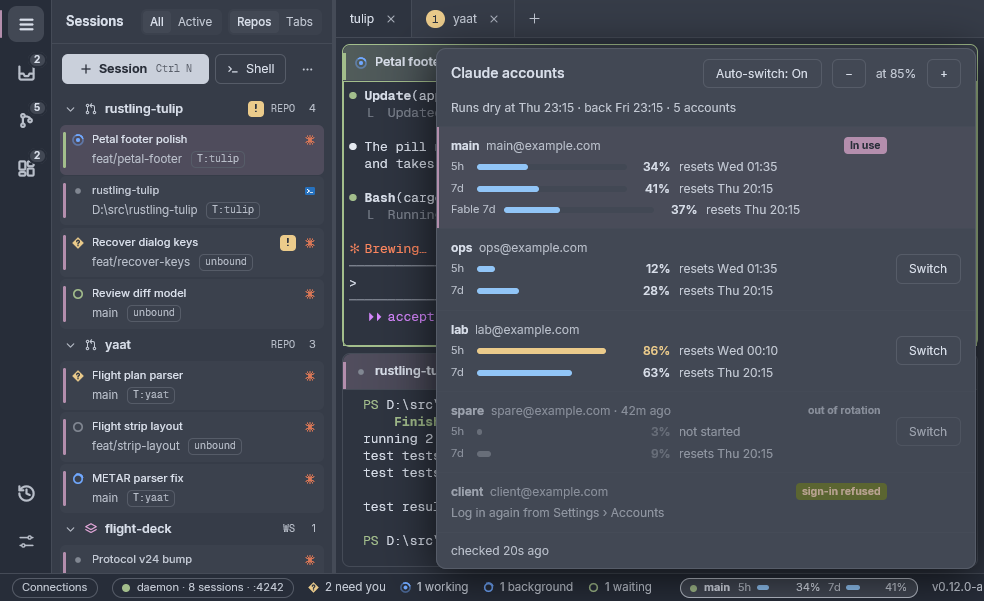
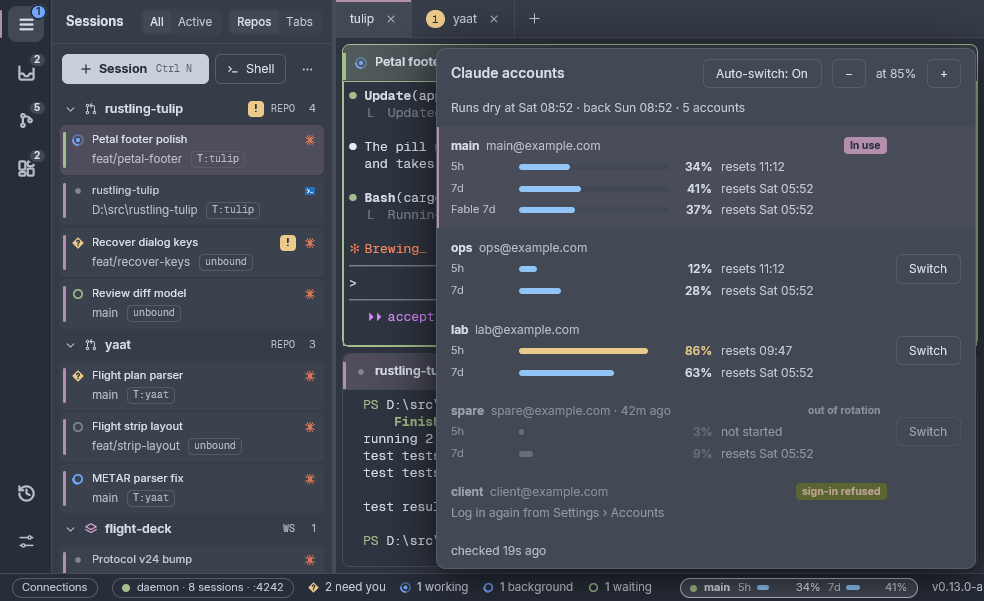
docs: refresh the README for v0.13.0-alpha

diff --git a/README.md b/README.md
@@ -14,12 +14,13 @@ It is alpha software.
 - Add any folder as a repo: one that is not a git repo shows as DIR and opens sessions in place, with no worktree or branch choice.
 - Group repos into a workspace: one session works across all of them, with their relative paths kept. A VS Code `.code-workspace` file next to a repo is offered as a workspace.
 - Every session's status has its own shape and colour: working, asking you something, finished while you were away, idle, or idle with background work still running.
-- Tab pills and, on Windows, a badge on the taskbar button count the sessions that need you, and show nothing at zero; Settings can show busy or idle counts instead.
+- Tab pills and, on Windows, a badge on the taskbar button count the sessions that need you, and show nothing at zero; Settings can show busy or idle counts instead. A blue count on the taskbar, the tabs and the Sessions icon shows sessions that finished while you weren't looking; looking at one clears it.
 - The Needs You panel lists every session waiting on you, longest wait first, with what each asks: its question, the tool it wants to run, or the plan to approve. A notification fires when a session needs you or finishes (skipped when you are already looking at it), after a wait you choose for Finished.
 - Notifications can be the app's own toasts, which answer a prompt or go to its pane without taking focus; on macOS they always are. Each kind plays its own sound, silent during Do Not Disturb: a chime from the bundled list, your own .wav or .ogg, or none.
 - Turn on session summaries in Settings › Dashboard and each finished turn of a Claude session gets a one-line summary, kept across restarts, with a daily cap on what they spend.
 - The Dashboard tab, opened from the activity rail, opens on a Compact view of every running agent by repo, with its state, work and subagents (each with its model and effort level) and no scrolling. Its By status view adds context, recent work, cost, a two-hour activity bar and the Linear issue named in each session's branch, with a drawer per session.
 - Answer a session's question or permission prompt from the Dashboard with one click, or jump to its pane; the header counts today's cost, tokens and commits across every session.
+- Dispatch runs show in the sidebar tagged DS. Click one, or drag it onto a pane, to follow it with its cost, tokens, recent actions and a Stop button; the Dashboard lists each under the session that started it.
 - `rustling-tulipd` drives sessions from a shell or a script: `sessions`, `read`, `spawn`, `send`, `kill`, `wait` and `watch`, each with `--json`.
 - Ctrl+Shift+P opens a jump palette: type to find any open pane, tab, session, repo or workspace, and Enter goes straight there. It also opens a shell on any connected computer.
 - Open a repo's, workspace's or tab's menu from the keyboard with Shift+F10 or the Menu key.
@@ -155,6 +156,15 @@ On a Mac with Apple silicon (there is no build for Intel Macs):
 4. Secret environment rows need Windows Credential Manager, so on a Mac a session with a secret row will not start; give it the secret through an `${env:NAME}` row instead.
 
 Remote access over Tailscale needs [Tailscale](https://tailscale.com/) on both PCs, signed in to the same tailnet, with HTTPS certificates turned on for it. Remote access over SSH needs only an SSH login to the other PC.
+
+## What's new in v0.13.0-alpha
+
+- Dispatch runs show in the sidebar tagged DS, and a pane can follow one with its cost, tokens, recent actions and a Stop button.
+- The Dashboard lists the dispatch runs a session started under that session.
+- A blue count on the taskbar, the tabs and the Sessions icon shows sessions that finished while you weren't looking.
+- Ctrl+clicking a file path in a terminal opens it in its app at once.
+
+The full list is in the [release notes](https://github.com/leftos/rustling-tulip/releases/tag/v0.13.0-alpha).
 
 ## What's new in v0.12.1-alpha
 
